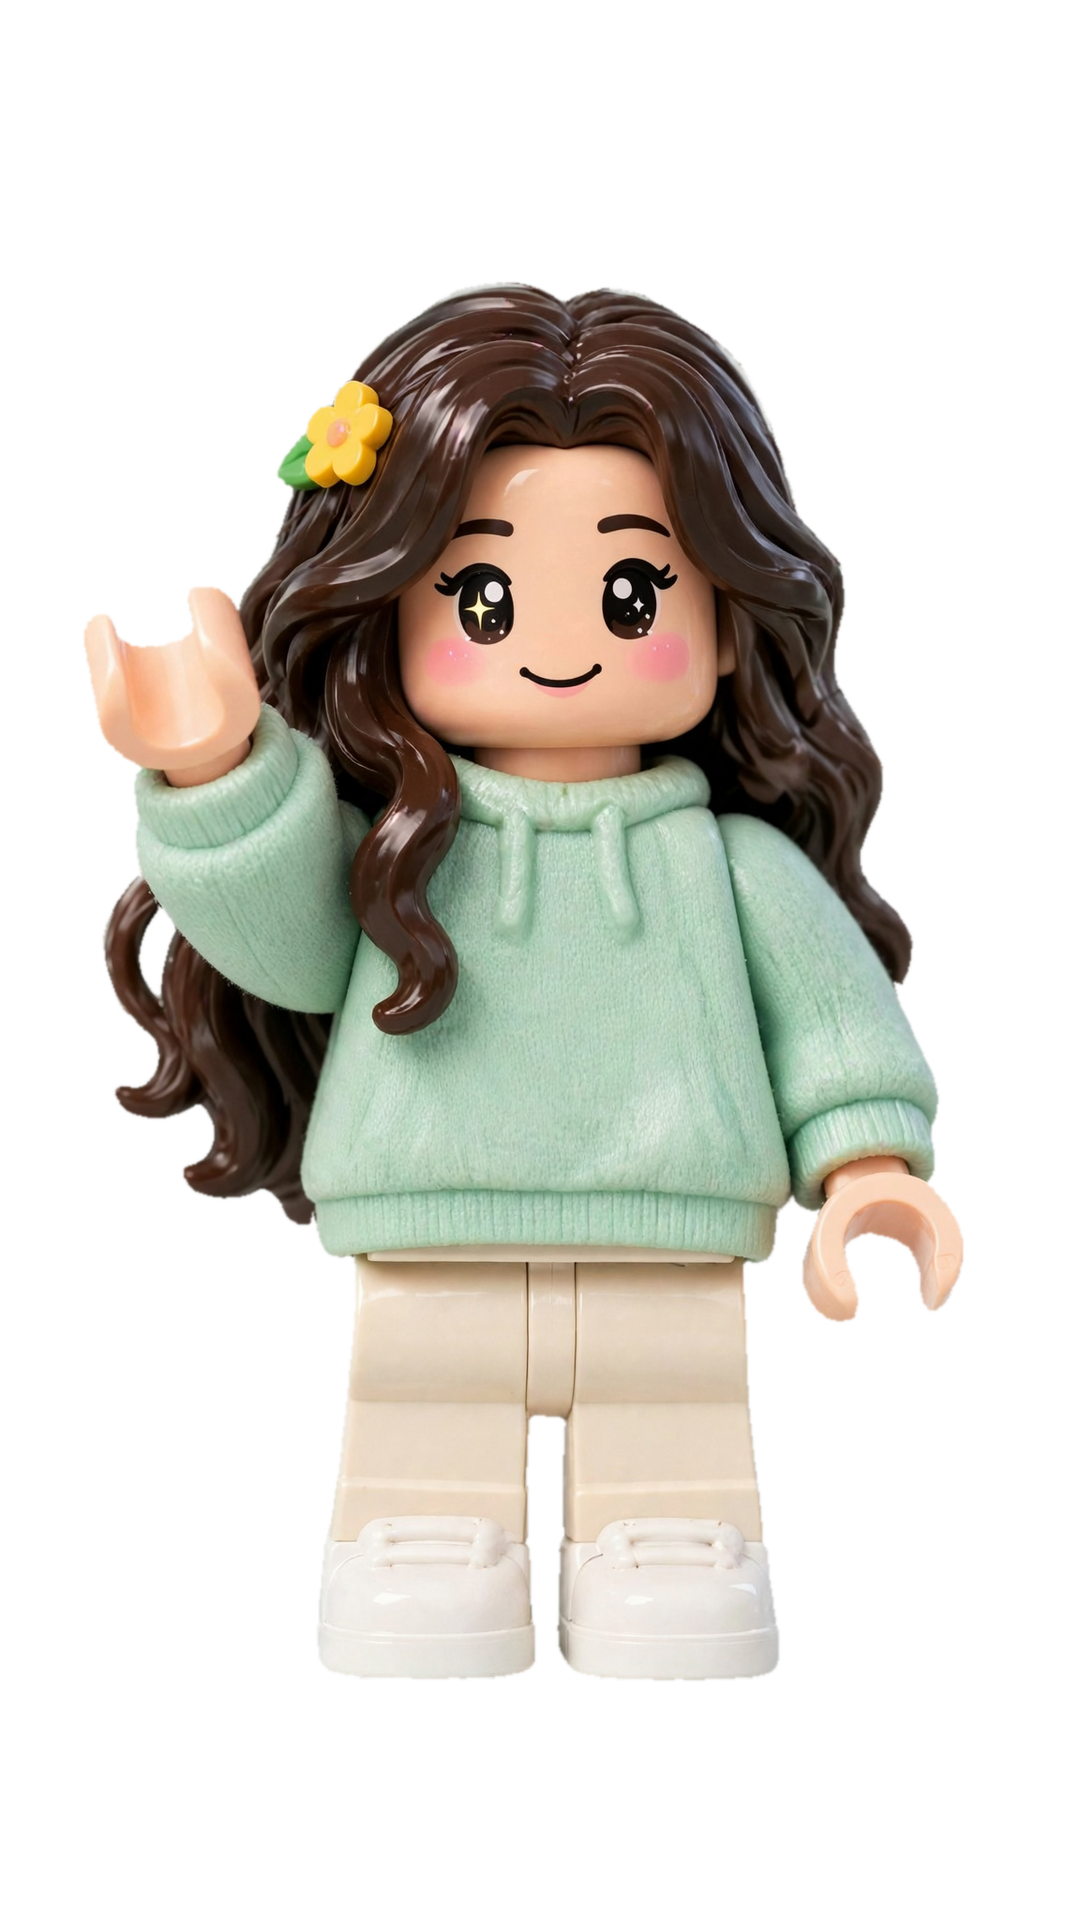
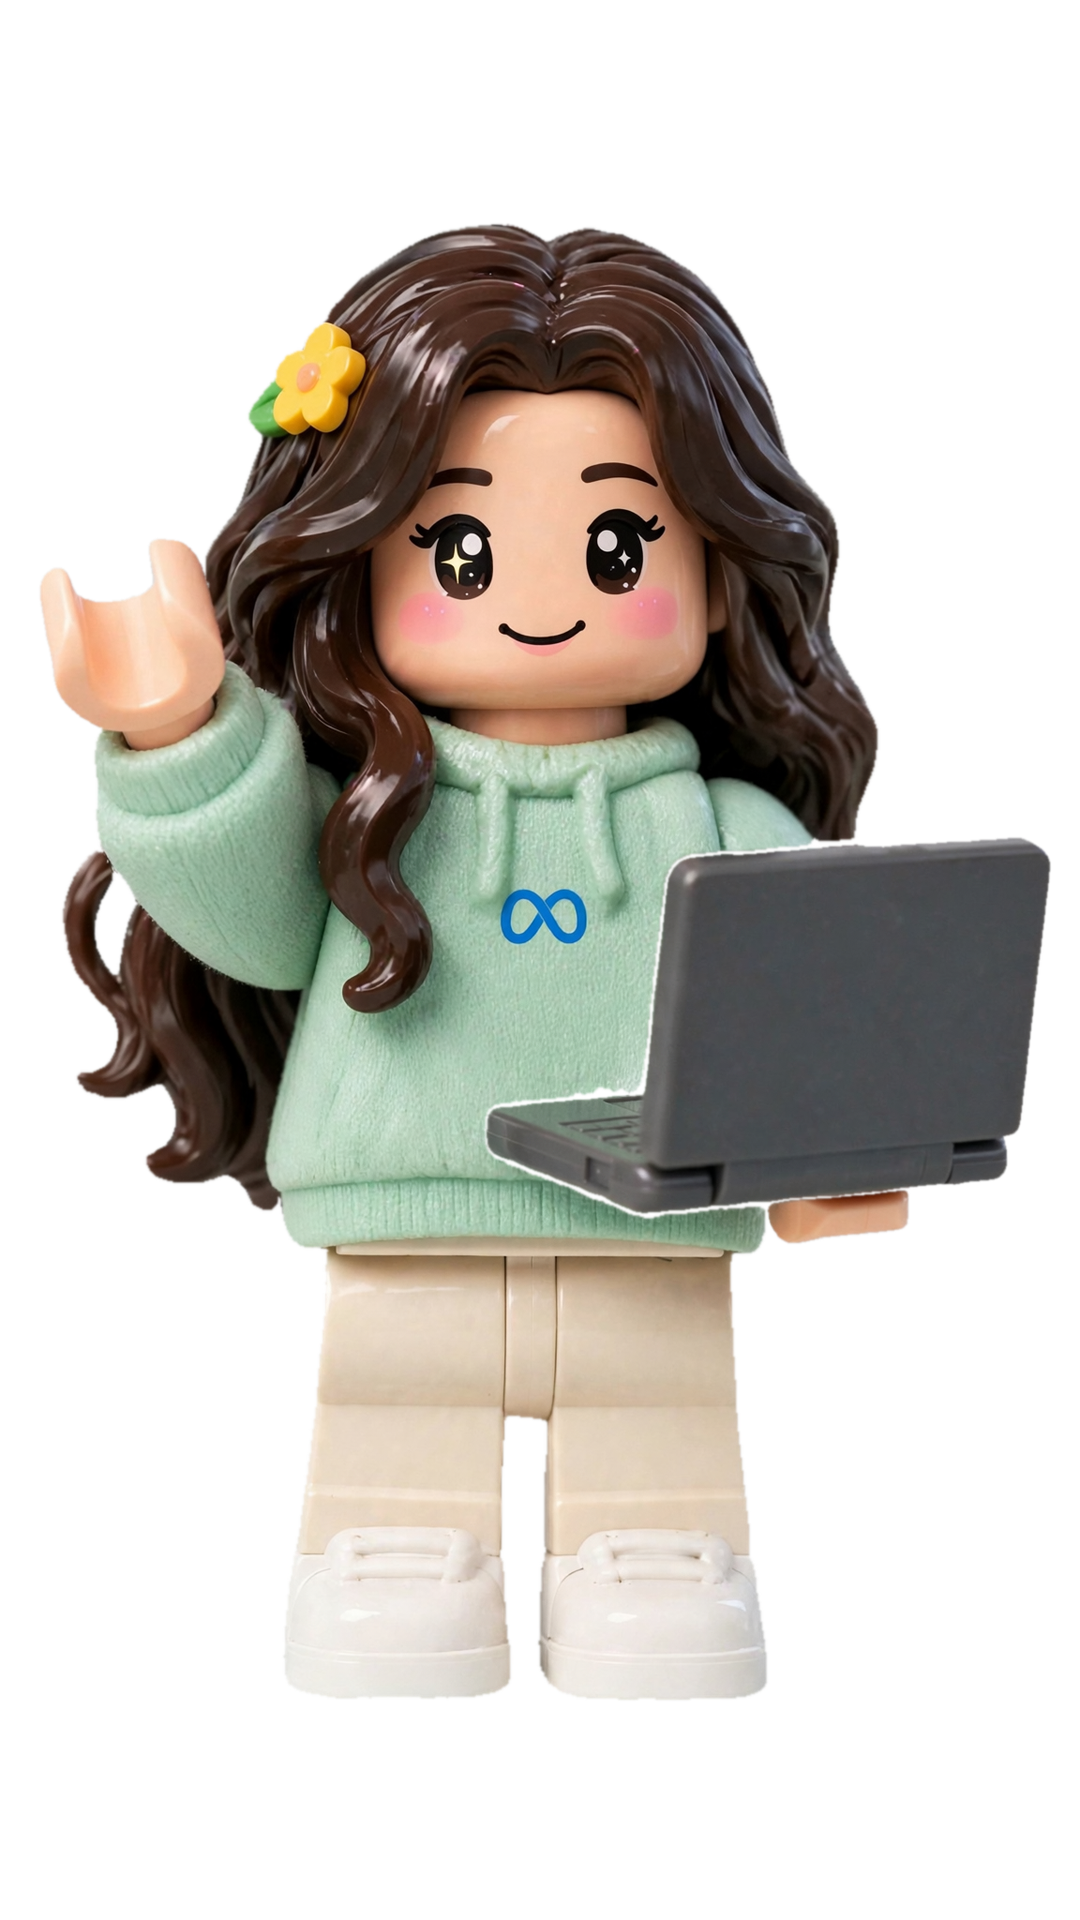
Ada redrawn by Muse Image (Sena): the infinity sign on her hoodie like the cast, a dark grey laptop like Sam's tablet with its screen turned to her; cut out by SAM 3.1. The previous portrait kept as ada-v1.png

Changed region(s): [[0.0306, 0.0938, 0.9778, 0.9062]]

diff --git a/experiments/mascot_portraits.py b/experiments/mascot_portraits.py
@@ -55,9 +55,15 @@ PROPS = {
                 ["glowing orb", "crystal ball", "hand"]),
     "iris": ("holding the paint palette and paintbrush, the shoulder bag on, as in the reference",
              ["paint palette", "paintbrush", "bag"]),
-    # Ada as Sena chose her: no laptop, hands free (the laptop version was wrong).
-    "ada": ("waving with one hand, both hands empty and holding nothing: no laptop, no "
-            "computer, no robot, no props", []),
+    # Ada, Sena 31 Oct: the blue infinity sign on her hoodie like the rest of the cast, and
+    # an open dark grey laptop like Sam's tablet (the earlier pink one with stickers was wrong).
+    "ada": ("waving with one hand and holding an open dark grey laptop in the other, the "
+            "laptop the same dark grey and style as the tablet of the second reference "
+            "character; the screen faces HER, not the camera: we see the plain back of the "
+            "lid, no screen, no code visible to us, no stickers, no pink; on the chest "
+            "of her plain mint-green hoodie the small blue infinity sign, exactly like the "
+            "one on the second reference character's hoodie; no robot, no other props",
+            ["laptop", "hand"]),
 }
 
 # SAM found no mask for Sam's tablet or Voice's microphone under any word we tried. For these
@@ -75,7 +81,12 @@ PROMPT = (
 
 
 def _jpeg(path, width=1024):
-    im = Image.open(path).convert("RGB")
+    im = Image.open(path)
+    if im.mode == "RGBA":   # a cut-out portrait: flatten on light grey, not black
+        flat = Image.new("RGB", im.size, (214, 214, 214))
+        flat.paste(im, mask=im.getchannel("A"))
+        im = flat
+    im = im.convert("RGB")
     if im.width > width:
         im = im.resize((width, round(im.height * width / im.width)))
     buf = io.BytesIO()
@@ -89,6 +100,8 @@ def draw(name):
         return
     hello = CAST[name]
     refs = [MASCOTS / "hello" / f"{hello}.jpg"]
+    if name == "ada":   # her current look first, Sam for the logo and the device
+        refs = [OUT / "ada-v1.png", OUT / "sam.png"]
     sheet = MASCOTS / "sheets" / f"{hello}.jpg"
     if sheet.exists():
         refs.append(sheet)
